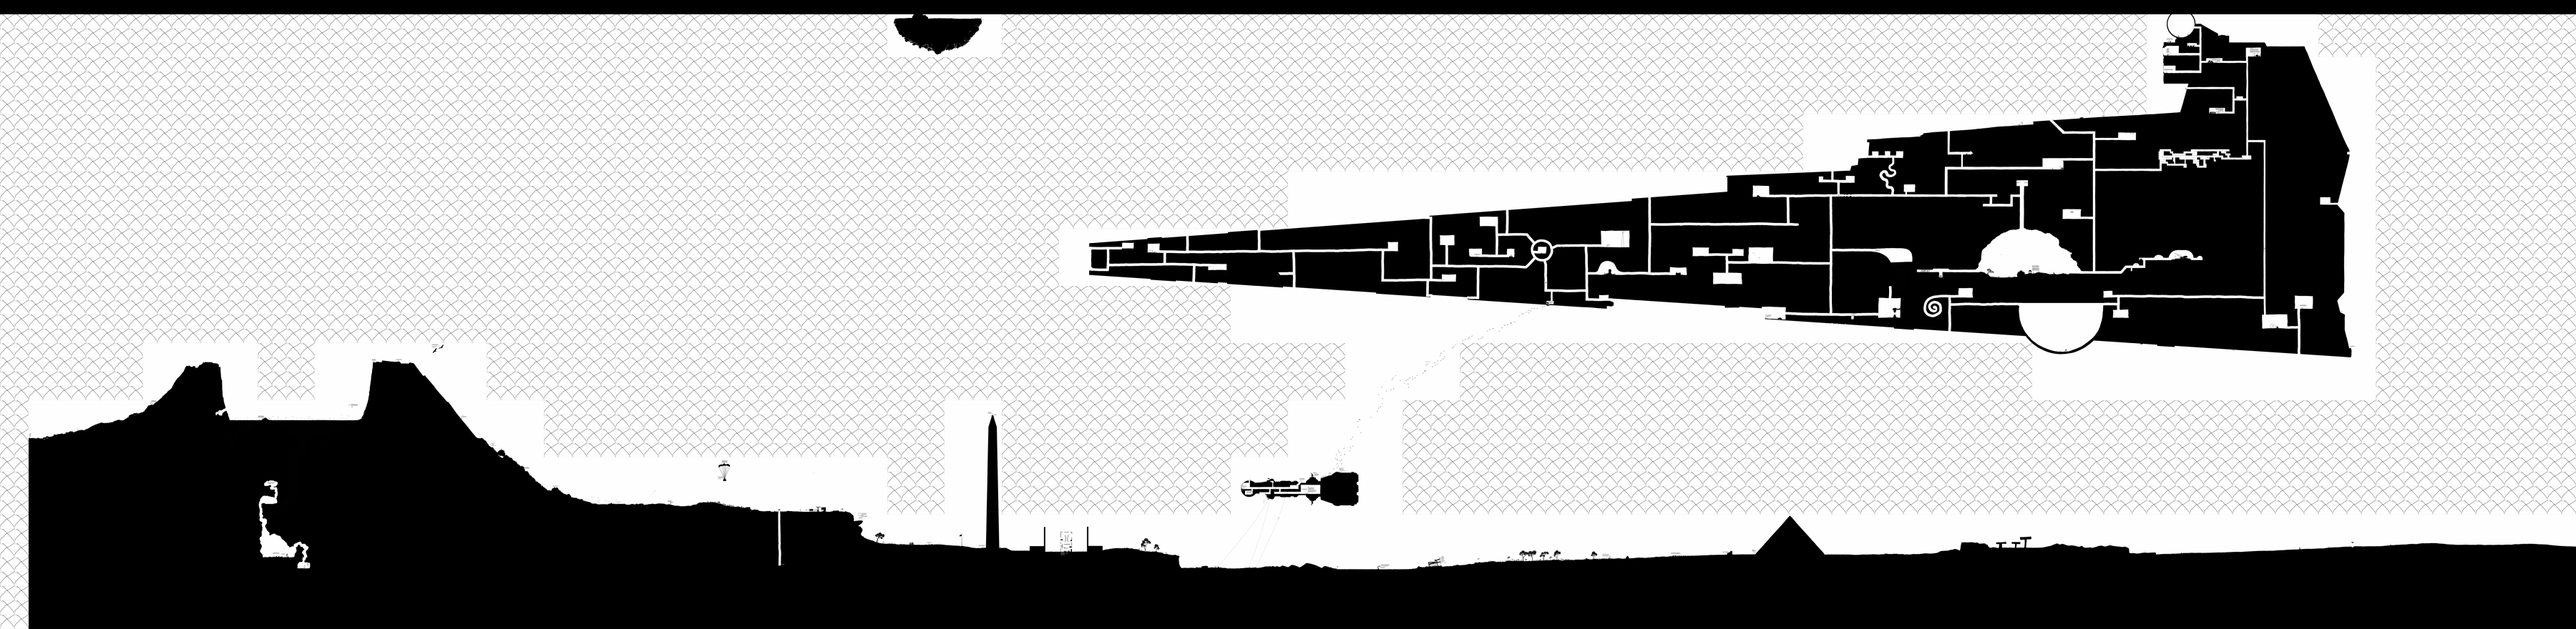
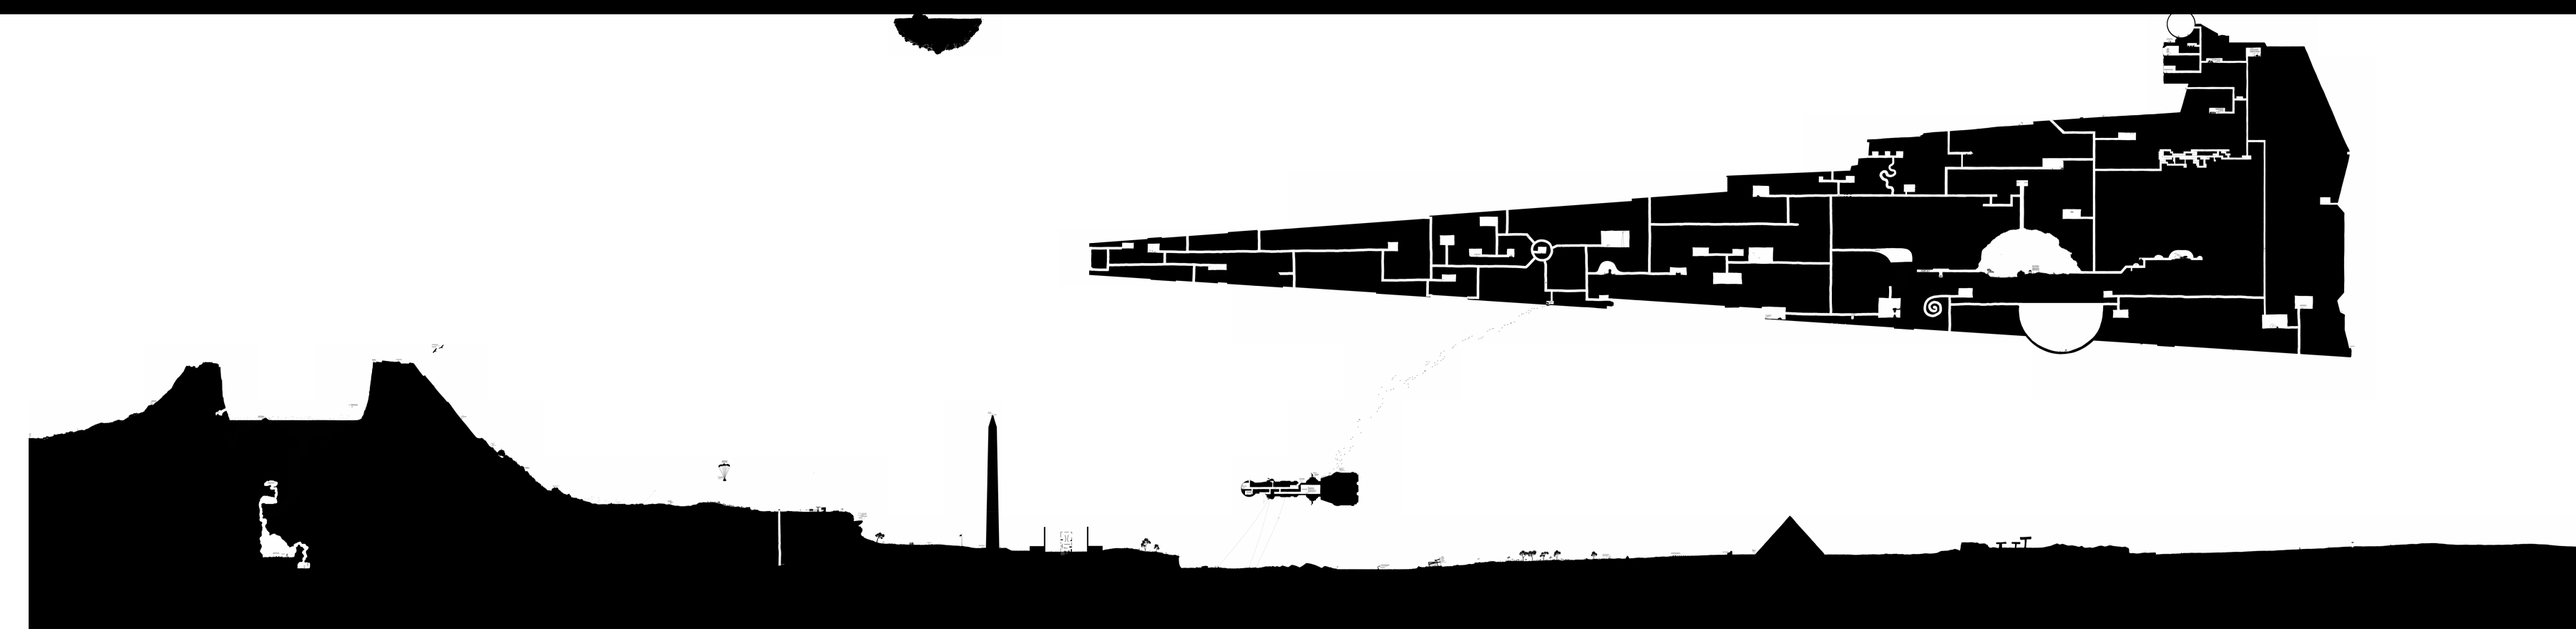
reduce 1608 file size by using a blank default image (and make it more pretty)

Changed region(s): [[0.0, 0.0307, 0.84, 0.8284], [0.56, 0.0307, 1.0, 0.8284]]

diff --git a/xkcd_1608/stitch_images.py b/xkcd_1608/stitch_images.py
@@ -6,7 +6,7 @@ ROW_IMAGE_DIR = "./results/xkcd_1608/stitched_rows"
 
 def file_name(x, y):
     successful_file_name = "%s/%i_%i.png" % (PULLED_IMAGES_DIR, y, x)
-    default_file_name = "./xkcd_1608/default_img.jpg"
+    default_file_name = "./xkcd_1608/default_img.png"
     if os.path.isfile(successful_file_name):
         return successful_file_name
     else:

diff --git a/README.md b/README.md
@@ -1,14 +1,19 @@
-# xkcd_1608_mapper
+# XKCD mapper
 
-Pulls all the images that form the map of https://xkcd.com/1608/ and stitches them together
-![This is the output.](https://github.com/Rthe1st/xkcd_1608_mapper/tree/master/results/xkcd_1608/whole_picture/total_img_20_pixel.png)
-That one is scaled down to load quick, so text is hard to read
-Check /results for better quality
-
-Also while doing this I saw you get crazy Gandalf mode if you find all the coins
+xkcd.com occasionally has a comic that you explore interactively.
+This project turns those into single static images.
 
 ```bash
 poetry install
 poetry run python __main__.py -h
-poetry run python __main__.py
+python __main__.py xkcd_1608
+python __main__.py xkcd_2712
 ```
+
+## Results
+
+- [XKCD 1608.](https://github.com/Rthe1st/xkcd_1608_mapper/tree/master/results/xkcd_1608/whole_picture/total_img_20_pixel.png)
+- [XKCD 2712](https://github.com/Rthe1st/xkcd_1608_mapper/tree/master/results/xkcd_2712/universe/universe.png)
+
+These are scaled down to load quick, so text is hard to read
+Check /results for better quality.
